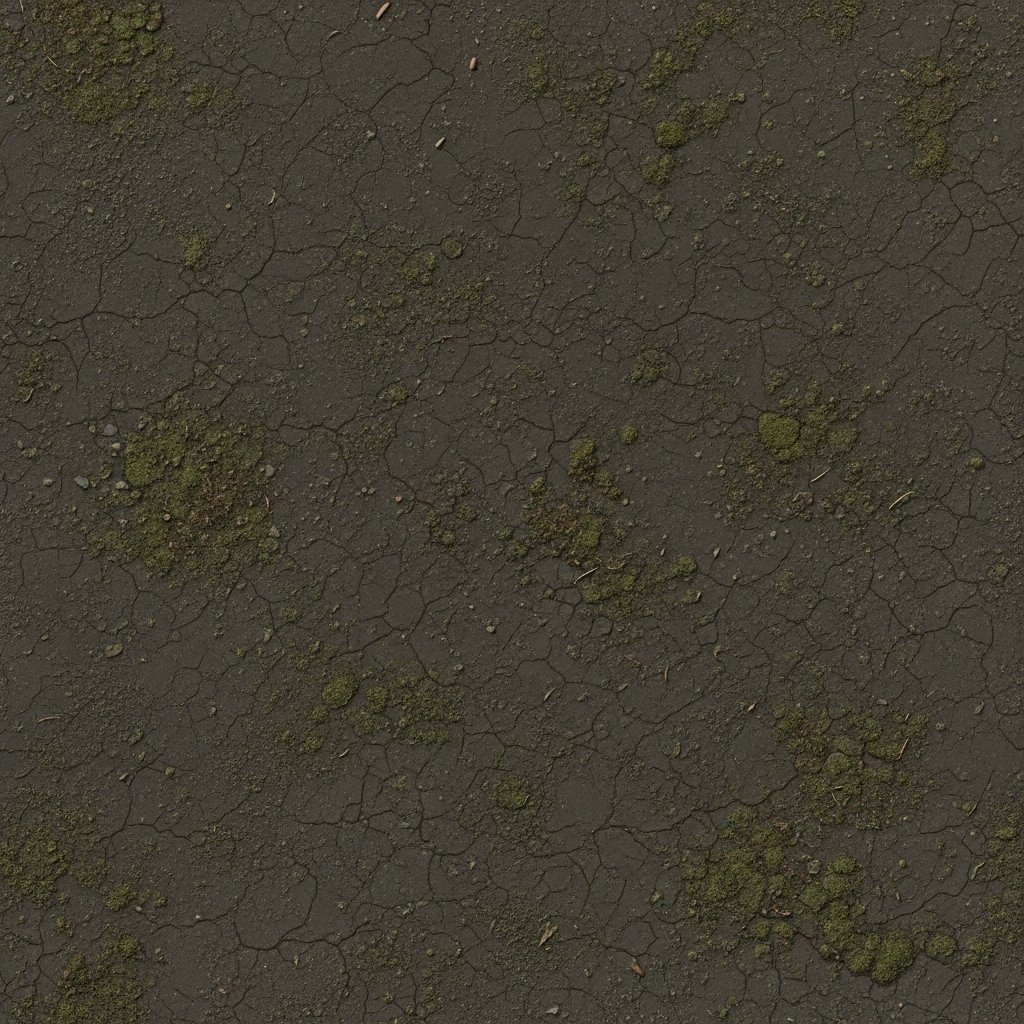
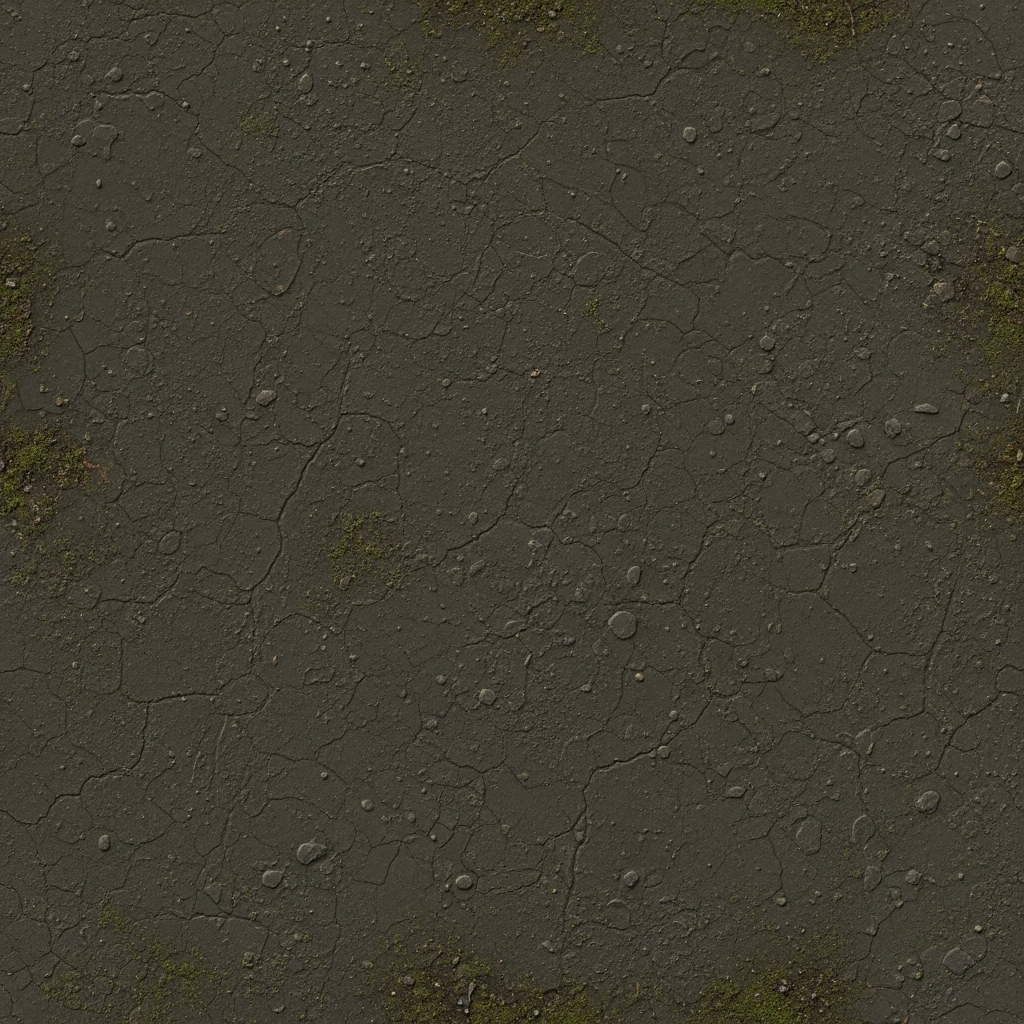
Updated background, included extra generated assets

diff --git a/scripts/generate_background.py b/scripts/generate_background.py
@@ -33,7 +33,7 @@ if not API_KEY:
 MODEL_NAME = "imagen-4.0-generate-001"
 OUTPUT_DIR = "assets/backgrounds"
 BASE_NAME = "game_bg"
-NUM_IMAGES = 1
+NUM_IMAGES = 4
 
 # Keep the prompt short and explicit. Long prompts sometimes increase the chance
 # of unexpected text or layout-like generations.
@@ -46,6 +46,20 @@ PROMPT = (
     "no border, no frame, no corners, no shadows, no objects, no rocks, no characters, no buildings."
 )
 
+##PROMPT = (
+##    "Single square image of a seamless tileable top-down orthographic 2D fantasy arena floor texture "
+##    "for a stylized medieval survivor game. "
+##    "Hand-painted game texture look, slightly pixel-art-inspired, simple readable shapes, limited color palette, "
+##    "and intentionally non-photoreal. "
+##    "Dark desaturated brown-gray earth with muted olive moss patches, soft stylized cracks, worn dirt bands, "
+##    "and subtle fantasy ground variation. "
+##    "Chunky visual forms, clean readability at gameplay scale, low fine-detail noise, no realistic photography, "
+##    "no hyper-detailed surface, no gritty realism. "
+##    "Perfectly flat surface, zero perspective, zero depth, zero elevation. "
+##    "Repeat cleanly on all four edges. Texture only, full frame, edge to edge. "
+##    "No text, no letters, no words, no numbers, no symbols, no runes, no watermark, no logo, no UI, "
+##    "no border, no frame, no shadows, no objects, no rocks, no props, no characters, no buildings."
+##)
 
 def save_and_report(generated, path: str) -> None:
     generated.save(path)
